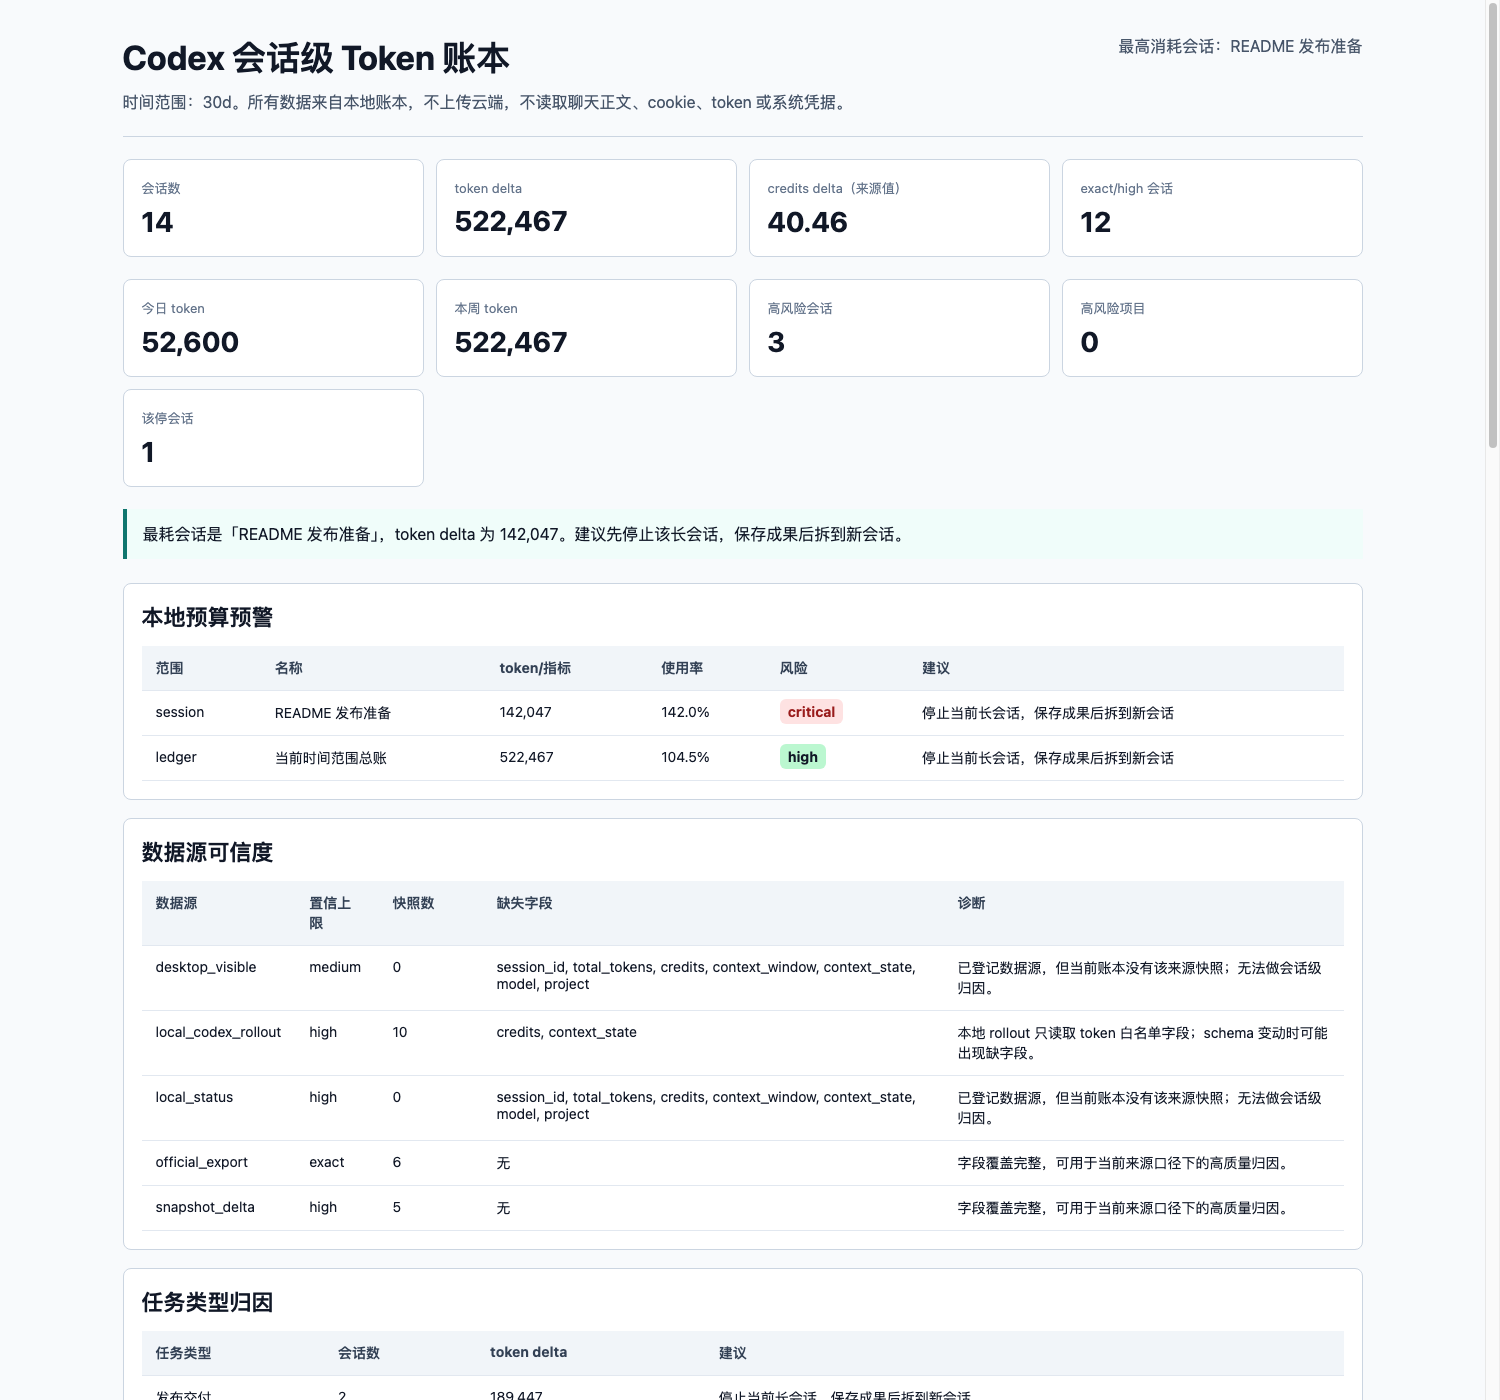
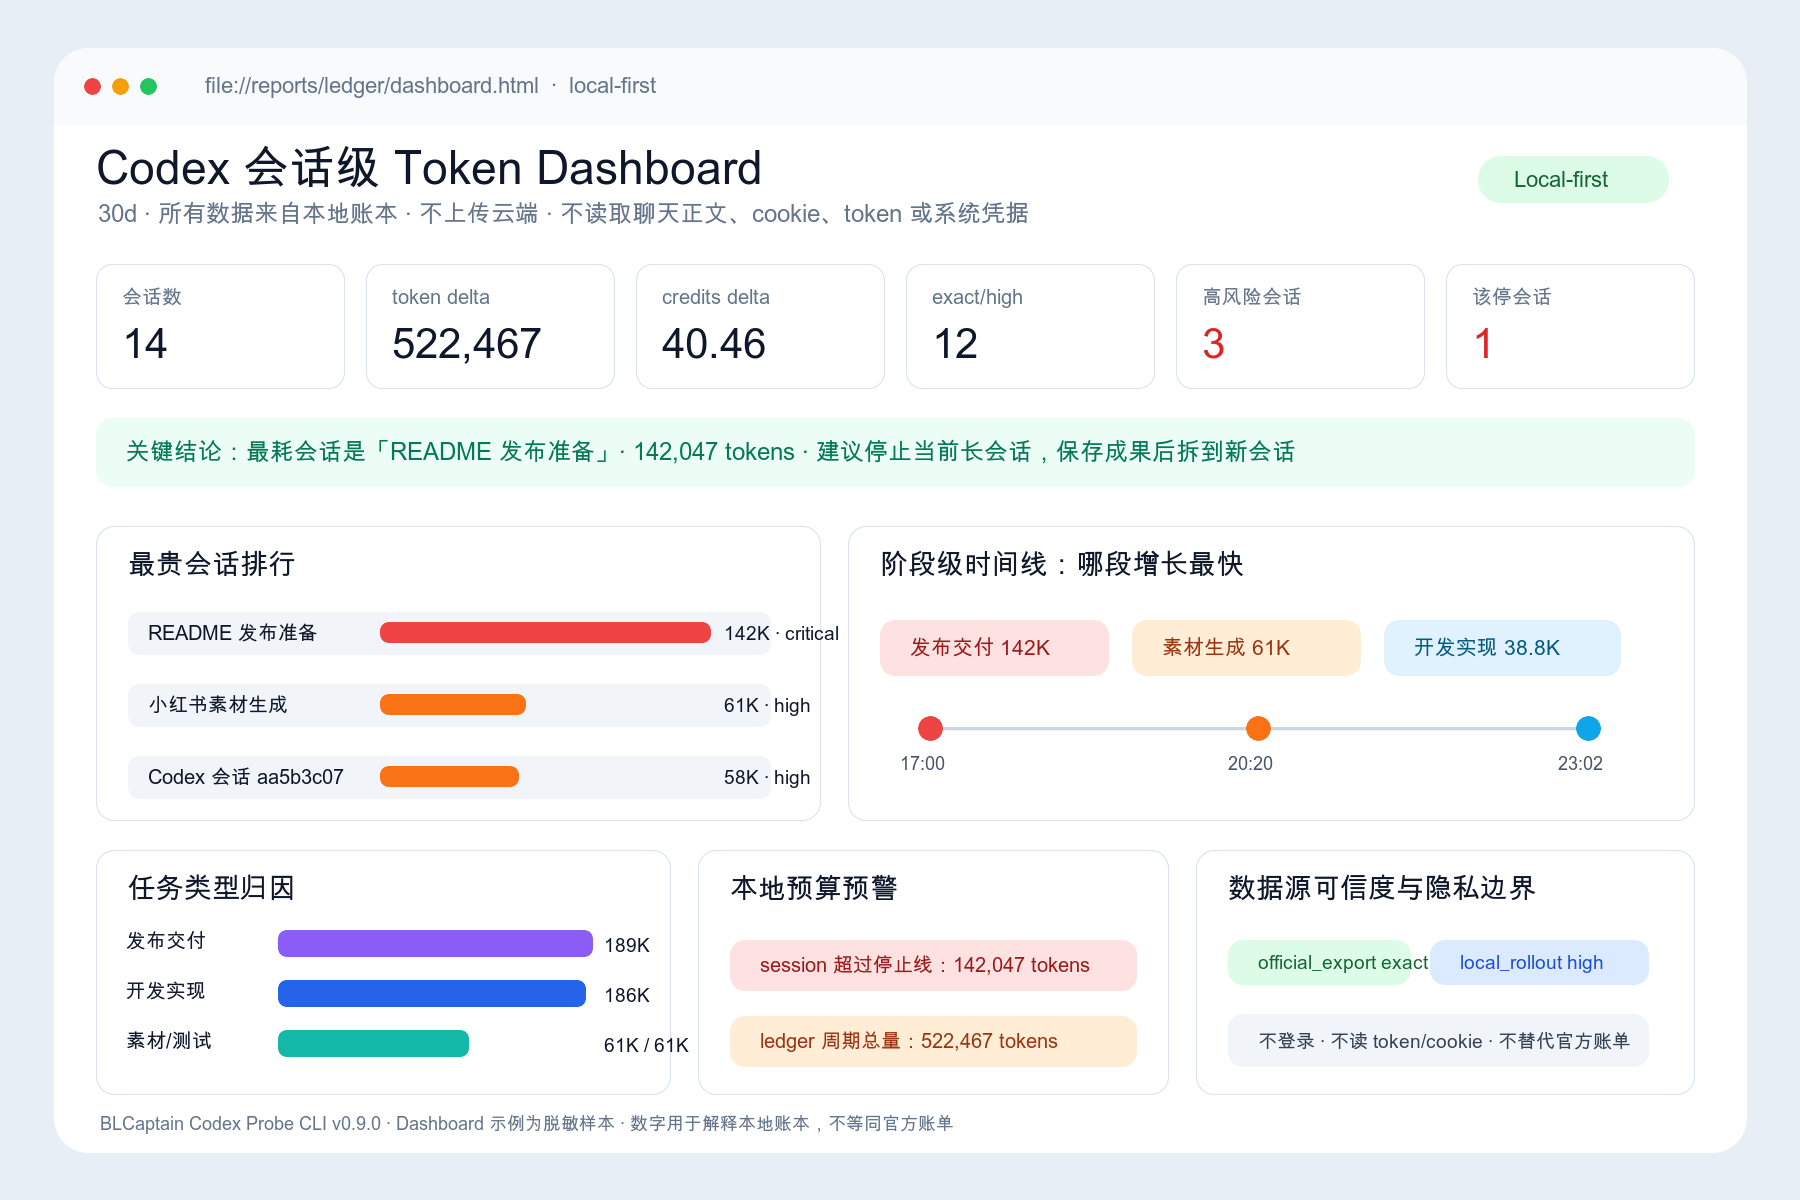
docs: improve dashboard screenshot

diff --git a/README.en.md b/README.en.md
@@ -119,6 +119,8 @@ Example reports:
 - [Privacy audit report](examples/reports/ledger/privacy-report.md)
 - [Local HTML dashboard](examples/reports/ledger/dashboard.html)
 
+The dashboard first answers three questions: which session consumed the most, which stage grew fastest, and whether to continue, downgrade, or stop.
+
 <p>
   <img src="assets/screenshots/ledger-dashboard.png" alt="Local Codex session-level token ledger dashboard" width="100%">
 </p>

diff --git a/README.md b/README.md
@@ -119,6 +119,8 @@ open build/CodexProbeBar.app
 - [隐私审计报告](examples/reports/ledger/privacy-report.md)
 - [本地 HTML Dashboard](examples/reports/ledger/dashboard.html)
 
+Dashboard 首屏优先回答三个问题：哪个会话最贵、哪段时间增长最快、现在该继续、降配还是停止。
+
 <p>
   <img src="assets/screenshots/ledger-dashboard.png" alt="本地 Codex 会话级 Token 账本 Dashboard" width="100%">
 </p>